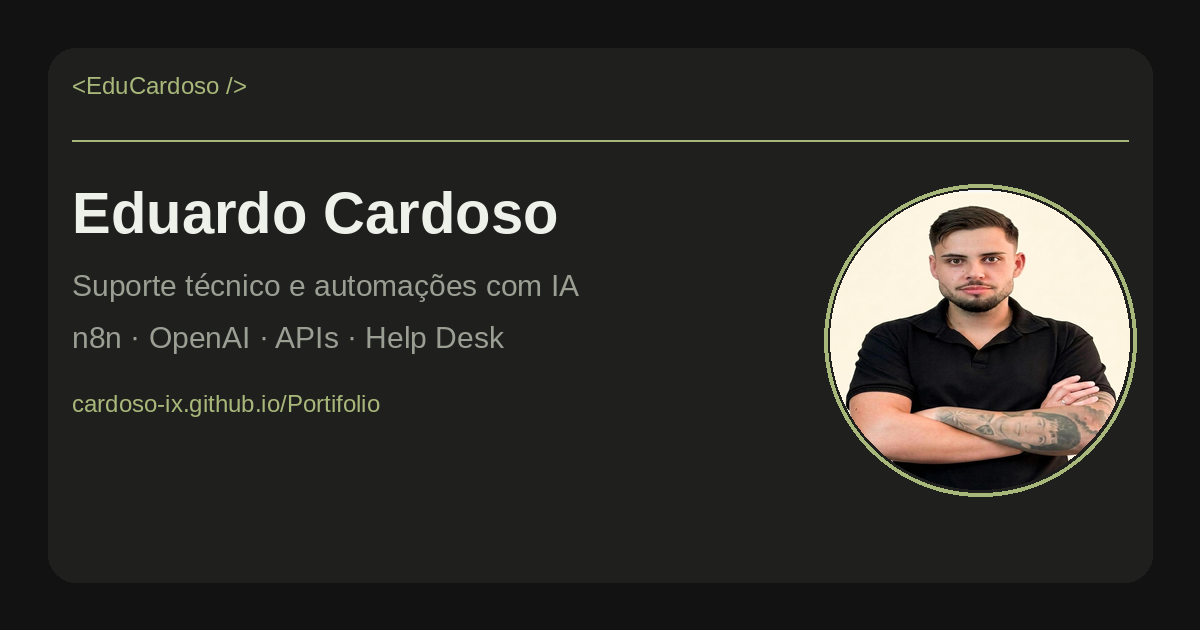
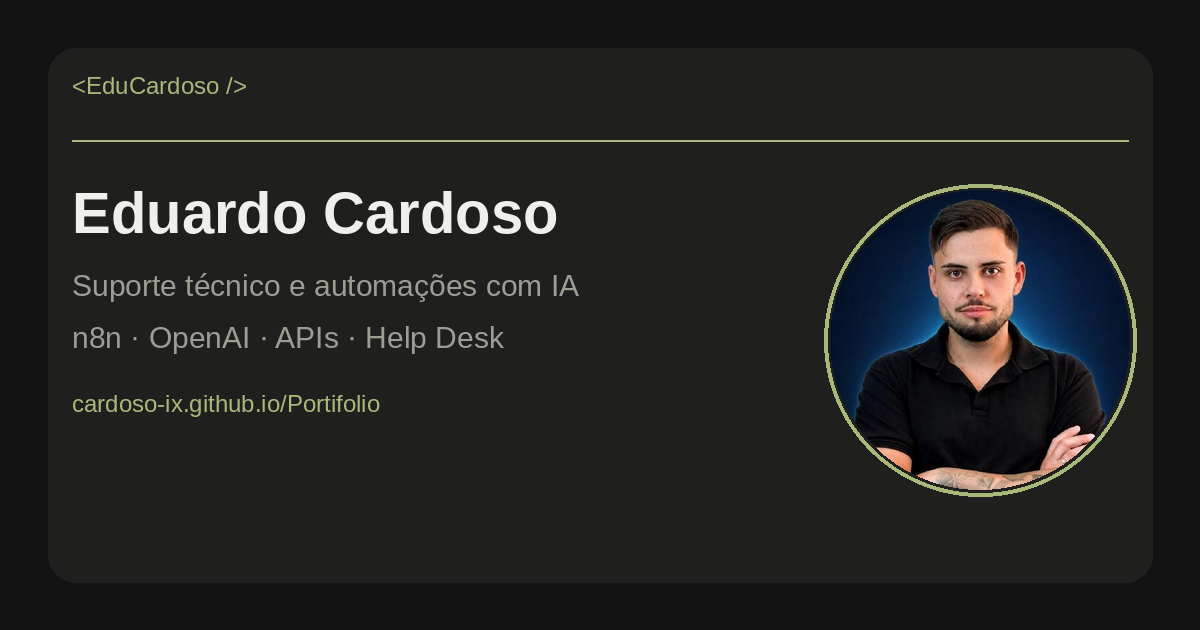
Atualiza foto de perfil no site, currículo e Open Graph.
Substitui a foto antiga (fundo claro) pela versão atual (fundo escuro), regenera o PDF do CV e a imagem OG, e invalida cache com ?v= na foto e no currículo.

Changed region(s): [[0.6783, 0.3016, 0.9558, 0.7841]]

diff --git a/index.html b/index.html
@@ -161,7 +161,7 @@
             </p>
             <div class="hero__actions">
               <a href="#projetos" class="btn btn--primary btn--lg"><span>Ver projetos</span></a>
-              <a href="assets/cv_eduardo_cardoso.pdf?v=10" class="btn btn--secondary btn--lg" target="_blank" rel="noopener noreferrer"><span>Currículo</span></a>
+              <a href="assets/cv_eduardo_cardoso.pdf?v=11" class="btn btn--secondary btn--lg" target="_blank" rel="noopener noreferrer"><span>Currículo</span></a>
               <a href="#contato" class="btn btn--outline"><span>Contato</span></a>
             </div>
           </div>
@@ -172,7 +172,7 @@
             <div class="hero__ring hero__ring--2" aria-hidden="true"></div>
             <div class="hero__ring hero__ring--3" aria-hidden="true"></div>
             <div class="hero__avatar">
-              <img src="assets/images/foto.png?v=2" alt="Foto de Eduardo Cardoso" class="hero__photo" width="400" height="400" fetchpriority="high" decoding="async">
+              <img src="assets/images/foto.png?v=3" alt="Foto de Eduardo Cardoso" class="hero__photo" width="400" height="400" fetchpriority="high" decoding="async">
             </div>
           </div>
           <div class="hero__profile-card">
@@ -490,7 +490,7 @@
           <a href="https://mail.google.com/mail/?view=cm&fs=1&to=eduardoocardosoo@gmail.com" class="contact__chip" id="contact-email" data-email="eduardoocardosoo@gmail.com" target="_blank" rel="noopener noreferrer" aria-label="Enviar e-mail para eduardoocardosoo@gmail.com">Email</a>
           <a href="https://www.linkedin.com/in/eduardo-cardoso-213a02267" class="contact__chip" target="_blank" rel="noopener noreferrer">LinkedIn</a>
           <a href="https://github.com/cardoso-ix" class="contact__chip" target="_blank" rel="noopener noreferrer">GitHub</a>
-          <a href="assets/cv_eduardo_cardoso.pdf?v=10" class="contact__chip" target="_blank" rel="noopener noreferrer">Currículo</a>
+          <a href="assets/cv_eduardo_cardoso.pdf?v=11" class="contact__chip" target="_blank" rel="noopener noreferrer">Currículo</a>
         </div>
       </div>
 
